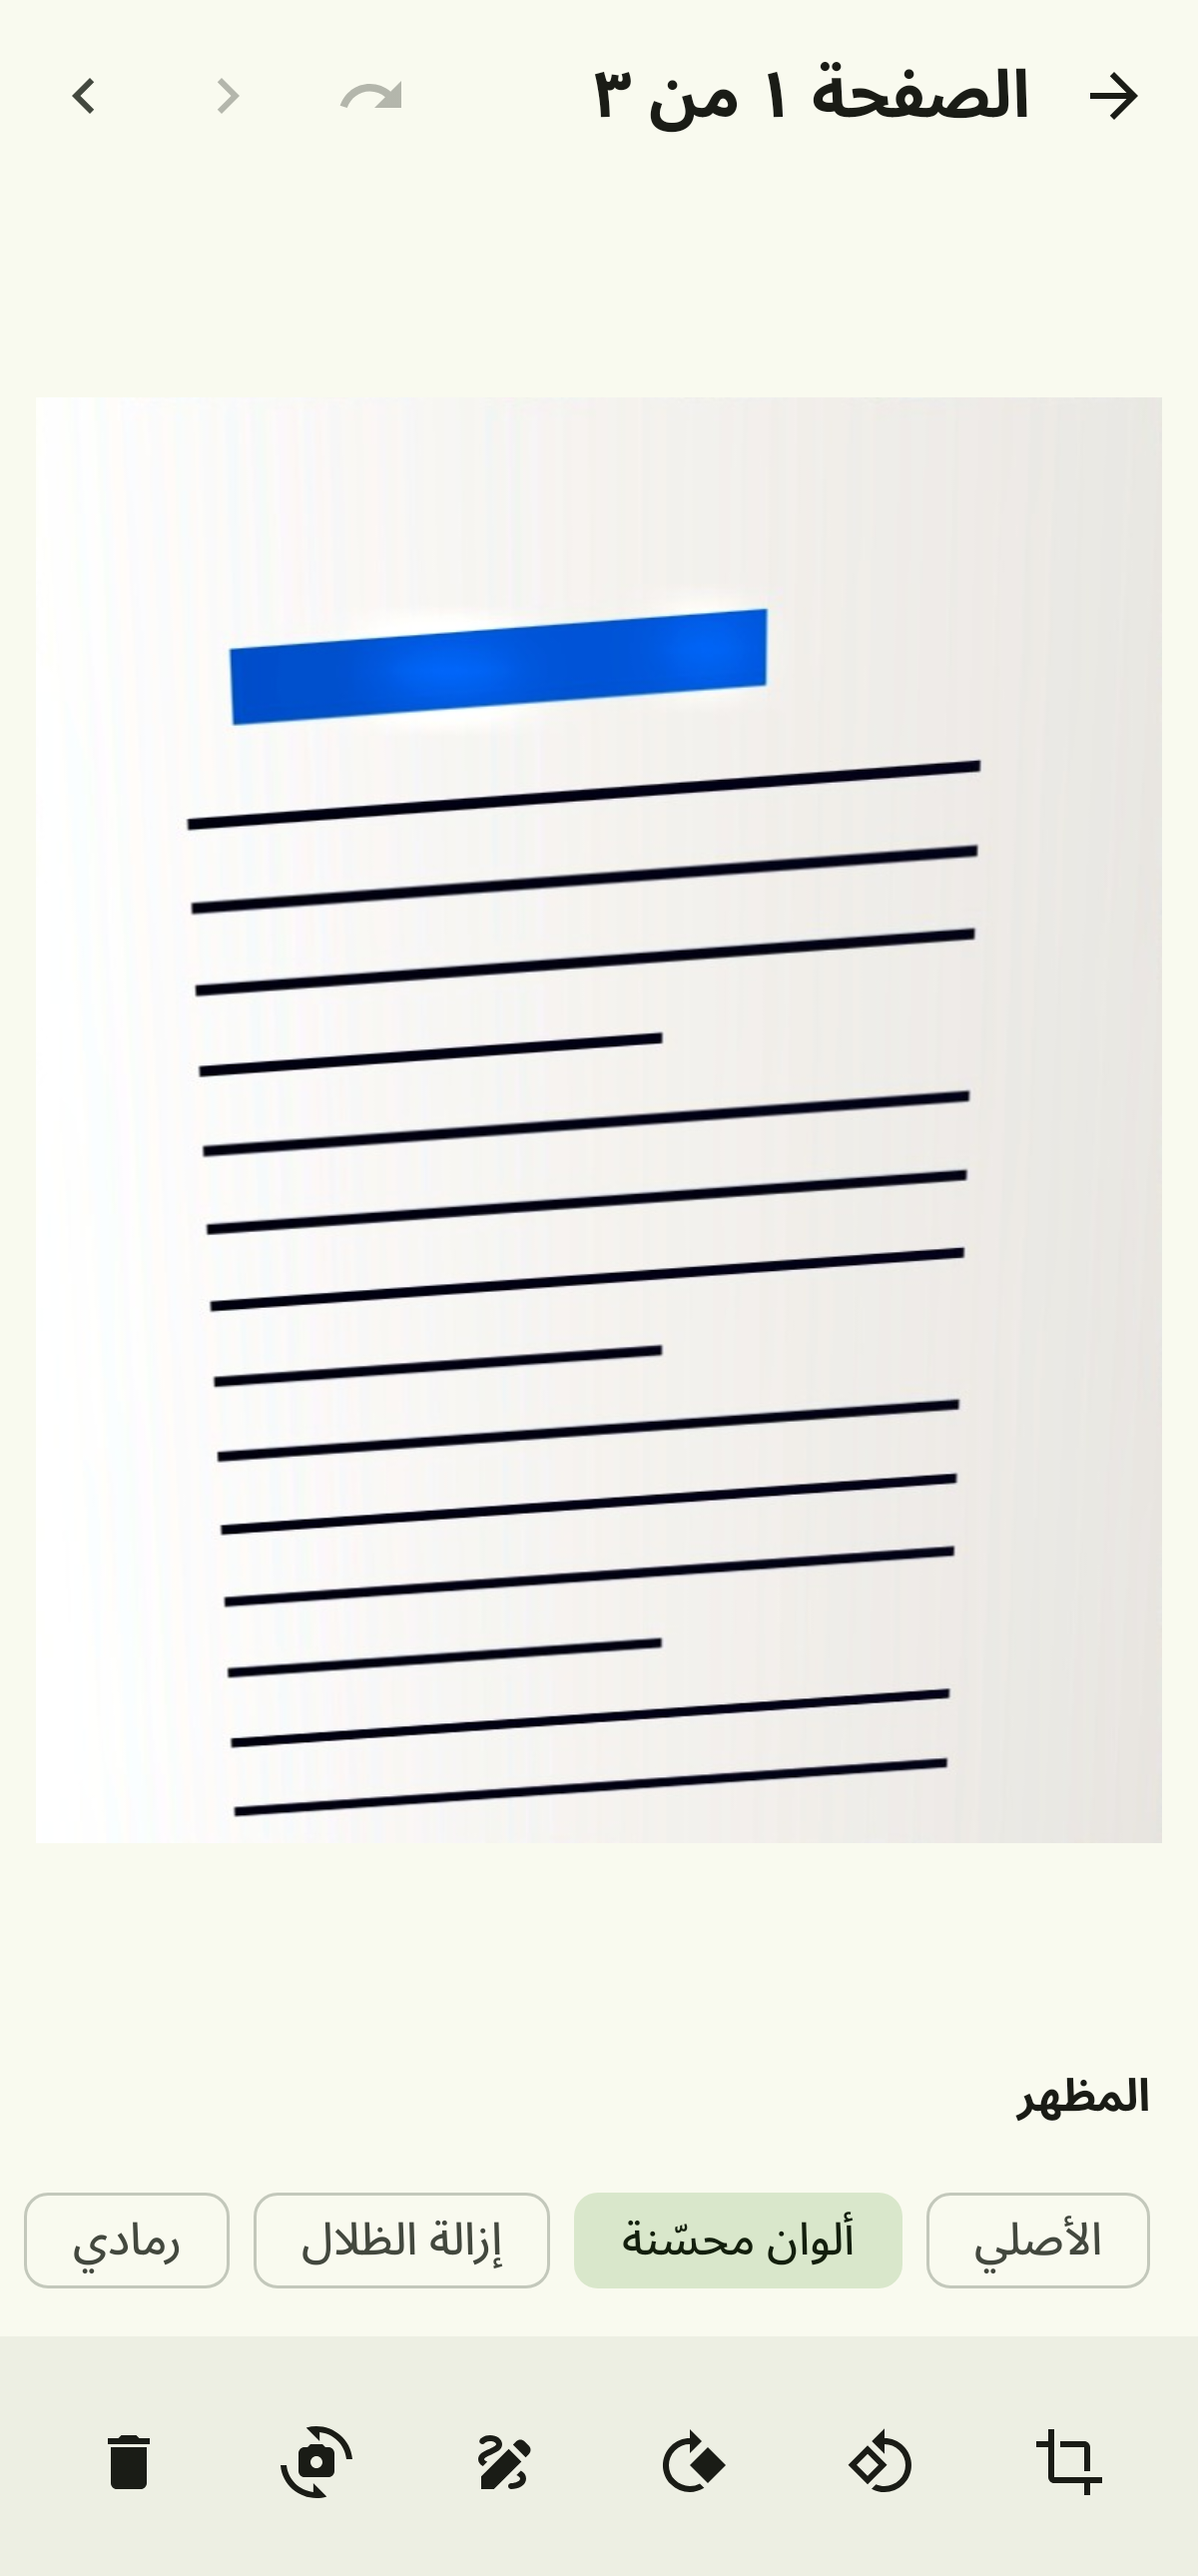
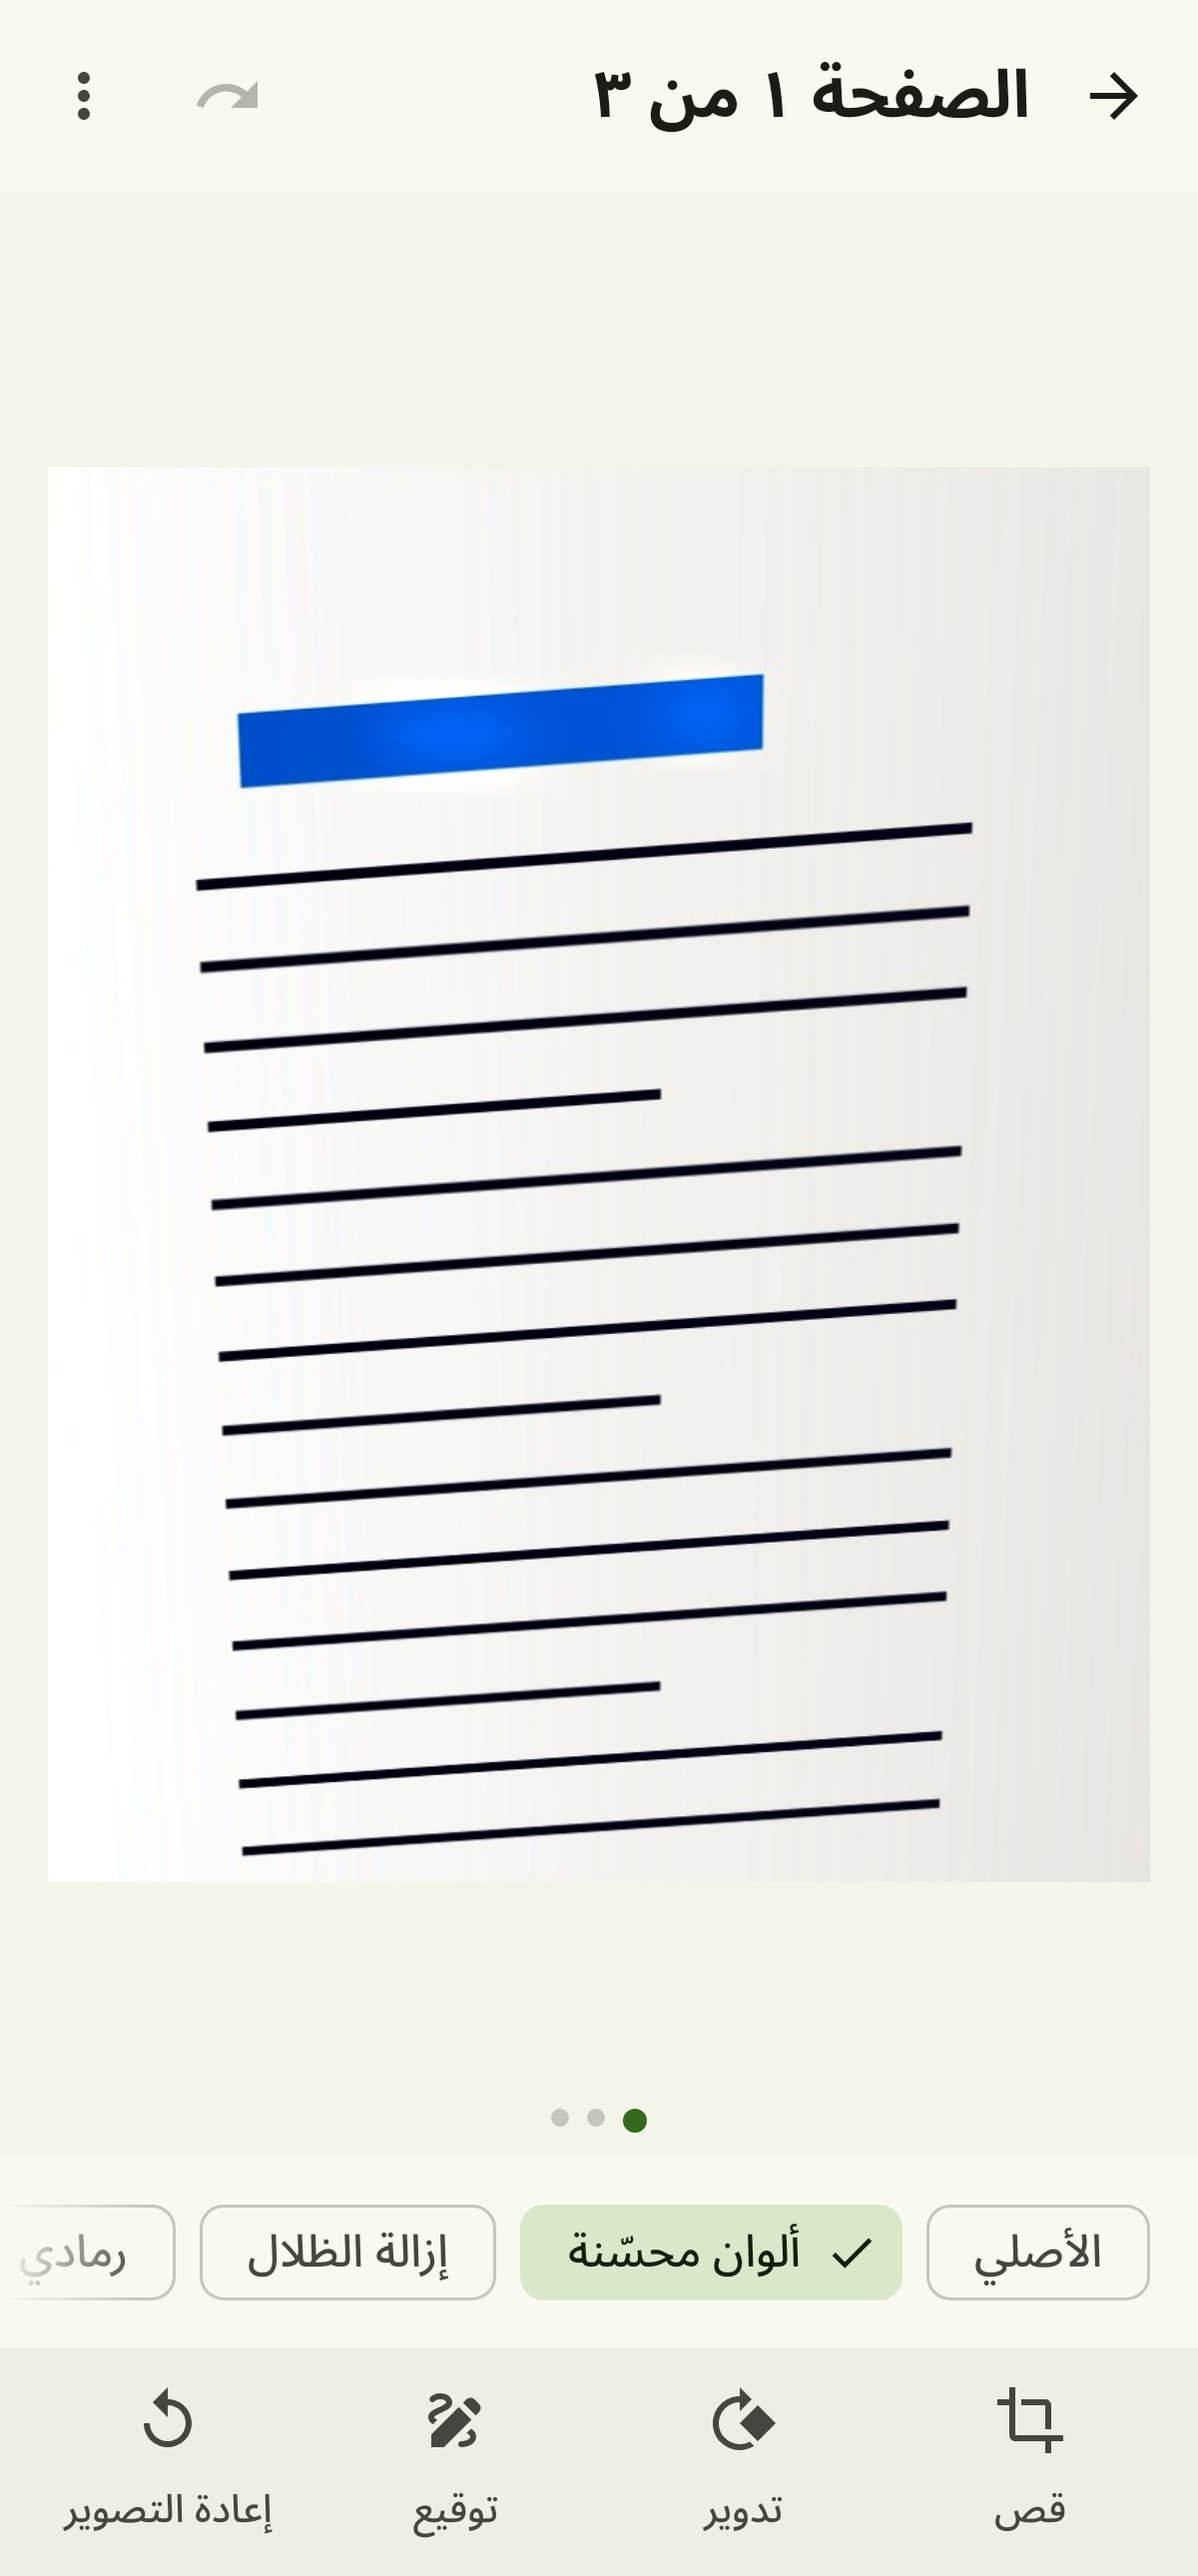
Design step 7: page editor with swipe pager, filter chips with check, labelled toolbar
Pages swipe in a HorizontalPager (title announces «الصفحة ٢ من ٣», pager
scroll actions for TalkBack, dots); the page is a white sheet with a level-1
shadow at its own aspect; chips show a check and fade at the end edge; toolbar
crop / rotate / signature / retake; rotate-left and delete (confirm) in ⋮.

diff --git a/app/src/main/java/com/fastkiwi/scan/ui/PageScreen.kt b/app/src/main/java/com/fastkiwi/scan/ui/PageScreen.kt
@@ -2,50 +2,57 @@
 // SPDX-License-Identifier: Apache-2.0
 package com.fastkiwi.scan.ui
 
+import androidx.compose.foundation.background
 import androidx.compose.foundation.layout.Arrangement
 import androidx.compose.foundation.layout.Box
 import androidx.compose.foundation.layout.Column
+import androidx.compose.foundation.layout.PaddingValues
 import androidx.compose.foundation.layout.Row
+import androidx.compose.foundation.layout.aspectRatio
+import androidx.compose.foundation.layout.fillMaxHeight
 import androidx.compose.foundation.layout.fillMaxSize
 import androidx.compose.foundation.layout.fillMaxWidth
 import androidx.compose.foundation.layout.padding
+import androidx.compose.foundation.layout.size
+import androidx.compose.foundation.layout.width
 import androidx.compose.foundation.lazy.LazyRow
 import androidx.compose.foundation.lazy.items
-import androidx.compose.material.icons.Icons
-import androidx.compose.material.icons.automirrored.filled.ArrowBack
-import androidx.compose.material.icons.automirrored.filled.NavigateBefore
-import androidx.compose.material.icons.automirrored.filled.NavigateNext
-import androidx.compose.material.icons.filled.Rotate90DegreesCcw
-import androidx.compose.material.icons.filled.Rotate90DegreesCw
-import androidx.compose.material.icons.filled.Cameraswitch
-import androidx.compose.material.icons.automirrored.filled.Undo
-import androidx.compose.material.icons.filled.Crop
-import androidx.compose.material.icons.filled.Draw
-import androidx.compose.material.icons.filled.Delete
-import androidx.compose.material3.BottomAppBar
+import androidx.compose.foundation.pager.HorizontalPager
+import androidx.compose.foundation.pager.rememberPagerState
+import androidx.compose.foundation.shape.CircleShape
 import androidx.compose.material3.CircularProgressIndicator
-import androidx.compose.material3.ExperimentalMaterial3Api
+import androidx.compose.material3.DropdownMenu
+import androidx.compose.material3.DropdownMenuItem
 import androidx.compose.material3.FilterChip
+import androidx.compose.material3.FilterChipDefaults
 import androidx.compose.material3.Icon
-import androidx.compose.material3.IconButton
 import androidx.compose.material3.MaterialTheme
 import androidx.compose.material3.Scaffold
 import androidx.compose.material3.SnackbarHost
 import androidx.compose.material3.SnackbarHostState
+import androidx.compose.material3.Surface
 import androidx.compose.material3.Text
-import androidx.compose.material3.TopAppBar
 import androidx.compose.runtime.Composable
+import androidx.compose.runtime.LaunchedEffect
 import androidx.compose.runtime.getValue
 import androidx.compose.runtime.mutableStateOf
 import androidx.compose.runtime.remember
 import androidx.compose.runtime.setValue
 import androidx.compose.ui.Alignment
 import androidx.compose.ui.Modifier
+import androidx.compose.ui.graphics.Brush
+import androidx.compose.ui.graphics.Color
+import androidx.compose.ui.platform.LocalLayoutDirection
 import androidx.compose.ui.res.stringResource
+import androidx.compose.ui.semantics.LiveRegionMode
+import androidx.compose.ui.semantics.liveRegion
+import androidx.compose.ui.semantics.semantics
+import androidx.compose.ui.unit.LayoutDirection
 import androidx.compose.ui.unit.dp
 import androidx.lifecycle.compose.collectAsStateWithLifecycle
 import com.fastkiwi.scan.R
 import com.fastkiwi.scan.core.Filter
+import com.fastkiwi.scan.ui.theme.Dimens
 
 fun filterLabel(f: Filter): Int = when (f) {
     Filter.ORIGINAL -> R.string.filter_original
@@ -55,80 +62,82 @@ fun filterLabel(f: Filter): Int = when (f) {
     Filter.BW -> R.string.filter_bw
 }
 
-@OptIn(ExperimentalMaterial3Api::class)
+/**
+ * Page editor (design spec §3.5): swipe between pages, filter chips, and a
+ * labelled toolbar (crop, rotate, signature, retake); rotate-left and delete in ⋮.
+ */
 @Composable
 fun PageScreen(vm: AppViewModel, docId: String, startIndex: Int, snackbar: SnackbarHostState) {
     val docs by vm.docs.collectAsStateWithLifecycle()
     val doc = docs.firstOrNull { it.doc.id == docId }?.doc ?: vm.doc(docId)
-    var index by remember { mutableStateOf(startIndex) }
     var confirmDelete by remember { mutableStateOf(false) }
+    var menu by remember { mutableStateOf(false) }
     val busy by vm.busy
     if (doc == null || doc.pages.isEmpty()) {
-        androidx.compose.runtime.LaunchedEffect(Unit) { vm.back() }
+        LaunchedEffect(Unit) { vm.back() }
         return
     }
-    index = index.coerceIn(0, doc.pages.lastIndex)
+    val pager = rememberPagerState(initialPage = startIndex.coerceIn(0, doc.pages.lastIndex)) { doc.pages.size }
+    val index = pager.currentPage.coerceIn(0, doc.pages.lastIndex)
     val page = doc.pages[index]
 
     Scaffold(
         snackbarHost = { SnackbarHost(snackbar) },
         topBar = {
-            TopAppBar(
-                navigationIcon = { IconButton(onClick = { vm.back() }) { Icon(Icons.AutoMirrored.Filled.ArrowBack, stringResource(R.string.back)) } },
-                title = { Text(stringResource(R.string.page_n_of, index + 1, doc.pages.size)) },
-                actions = {
-                    IconButton(onClick = { vm.undo(docId) }, enabled = (vm.undoCounts[docId] ?: 0) > 0) {
-                        Icon(Icons.AutoMirrored.Filled.Undo, stringResource(R.string.undo))
+            KiwiTopBar(
+                stringResource(R.string.page_n_of, index + 1, doc.pages.size), NavIcon.BACK, { vm.back() },
+                titleModifier = Modifier.semantics { liveRegion = LiveRegionMode.Polite },
+            ) {
+                TooltipIconButton(KiwiIcons.undo(), stringResource(R.string.undo), { vm.undo(docId) }, enabled = (vm.undoCounts[docId] ?: 0) > 0)
+                Box {
+                    TooltipIconButton(KiwiIcons.more(), stringResource(R.string.more_options), { menu = true })
+                    DropdownMenu(expanded = menu, onDismissRequest = { menu = false }) {
+                        DropdownMenuItem(
+                            text = { Text(stringResource(R.string.rotate_left)) },
+                            leadingIcon = { Icon(KiwiIcons.rotateLeft(), null) },
+                            onClick = { menu = false; vm.editPage(docId, page.id) { it.copy(rotation = (it.rotation + 270) % 360) } },
+                        )
+                        DropdownMenuItem(
+                            text = { Text(stringResource(R.string.delete_page), color = MaterialTheme.colorScheme.error) },
+                            leadingIcon = { Icon(KiwiIcons.delete(), null, tint = MaterialTheme.colorScheme.error) },
+                            onClick = { menu = false; confirmDelete = true },
+                        )
                     }
-                    IconButton(onClick = { index-- }, enabled = index > 0) { Icon(Icons.AutoMirrored.Filled.NavigateBefore, stringResource(R.string.previous_page)) }
-                    IconButton(onClick = { index++ }, enabled = index < doc.pages.lastIndex) { Icon(Icons.AutoMirrored.Filled.NavigateNext, stringResource(R.string.next_page)) }
-                },
-            )
+                }
+            }
         },
         bottomBar = {
-            BottomAppBar {
-                Row(Modifier.fillMaxWidth(), horizontalArrangement = Arrangement.SpaceEvenly) {
-                    IconButton(onClick = { vm.open(Screen.Crop(docId, page.id)) }) { Icon(Icons.Filled.Crop, stringResource(R.string.crop)) }
-                    IconButton(onClick = { vm.editPage(docId, page.id) { it.copy(rotation = (it.rotation + 270) % 360) } }) {
-                        Icon(Icons.Filled.Rotate90DegreesCcw, stringResource(R.string.rotate_left))
-                    }
-                    IconButton(onClick = { vm.editPage(docId, page.id) { it.copy(rotation = (it.rotation + 90) % 360) } }) {
-                        Icon(Icons.Filled.Rotate90DegreesCw, stringResource(R.string.rotate_right))
-                    }
-                    IconButton(onClick = { vm.open(Screen.Sign(docId, page.id)) }) { Icon(Icons.Filled.Draw, stringResource(R.string.signature)) }
-                    IconButton(onClick = { vm.open(Screen.Camera(docId, retakePageId = page.id)) }) { Icon(Icons.Filled.Cameraswitch, stringResource(R.string.retake)) }
-                    IconButton(onClick = { confirmDelete = true }) { Icon(Icons.Filled.Delete, stringResource(R.string.delete_page)) }
-                }
+            ActionToolbar {
+                ToolbarAction(KiwiIcons.crop(), stringResource(R.string.crop), { vm.open(Screen.Crop(docId, page.id)) })
+                ToolbarAction(KiwiIcons.rotateRight(), stringResource(R.string.rotate), {
+                    vm.editPage(docId, page.id) { it.copy(rotation = (it.rotation + 90) % 360) }
+                })
+                ToolbarAction(KiwiIcons.signature(), stringResource(R.string.signature), { vm.open(Screen.Sign(docId, page.id)) })
+                ToolbarAction(KiwiIcons.retake(), stringResource(R.string.retake), { vm.open(Screen.Camera(docId, retakePageId = page.id)) })
             }
         },
     ) { padding ->
         Column(Modifier.padding(padding).fillMaxSize()) {
-            Box(Modifier.weight(1f).fillMaxWidth().padding(12.dp), contentAlignment = Alignment.Center) {
-                FileImage(
-                    vm.store.outFile(docId, page.id), page.revision, 2048,
-                    stringResource(R.string.page_n_of, index + 1, doc.pages.size),
-                    Modifier.fillMaxSize(),
-                )
-                if (busy > 0) CircularProgressIndicator()
-            }
-            Text(
-                stringResource(R.string.filter), style = MaterialTheme.typography.titleSmall,
-                modifier = Modifier.padding(horizontal = 16.dp),
-            )
-            LazyRow(
-                Modifier.fillMaxWidth().padding(vertical = 8.dp),
-                horizontalArrangement = Arrangement.spacedBy(8.dp),
-                contentPadding = androidx.compose.foundation.layout.PaddingValues(horizontal = 16.dp),
-            ) {
-                items(Filter.entries) { f ->
-                    FilterChip(
-                        selected = page.filter == f,
-                        onClick = { if (page.filter != f) vm.editPage(docId, page.id) { it.copy(filter = f) } },
-                        label = { Text(stringResource(filterLabel(f))) },
-                        enabled = busy == 0,
-                    )
+            Box(Modifier.weight(1f).fillMaxWidth().background(MaterialTheme.colorScheme.surfaceContainerLow)) {
+                HorizontalPager(pager, Modifier.fillMaxSize(), key = { doc.pages[it].id }) { i ->
+                    val p = doc.pages[i]
+                    val file = vm.store.outFile(docId, p.id)
+                    val aspect by androidx.compose.runtime.produceState(0.707f, file, p.revision) {
+                        value = kotlinx.coroutines.withContext(kotlinx.coroutines.Dispatchers.IO) {
+                            com.fastkiwi.scan.imaging.BitmapIO.imageSize(file)?.let { (w, h) -> w.toFloat() / h } ?: 0.707f
+                        }
+                    }
+                    Box(Modifier.fillMaxSize().padding(Dimens.l), contentAlignment = Alignment.Center) {
+                        // The page as a sheet of paper (level-1 shadow), never tinted.
+                        Surface(shadowElevation = 1.dp, color = Color.White, modifier = Modifier.aspectRatio(aspect, matchHeightConstraintsFirst = aspect < 1f)) {
+                            FileImage(file, p.revision, 2048, stringResource(R.string.page_n_of, i + 1, doc.pages.size), Modifier.fillMaxSize())
+                        }
+                    }
                 }
+                if (busy > 0) CircularProgressIndicator(Modifier.align(Alignment.Center))
+                if (doc.pages.size > 1) PageDots(doc.pages.size, index, Modifier.align(Alignment.BottomCenter).padding(bottom = Dimens.s))
             }
+            FilterRow(page.filter, enabled = busy == 0) { f -> if (page.filter != f) vm.editPage(docId, page.id) { it.copy(filter = f) } }
         }
     }
 
@@ -142,5 +151,44 @@ fun PageScreen(vm: AppViewModel, docId: String, startIndex: Int, snackbar: Snack
             vm.deletePage(docId, index)
             if (doc.pages.size <= 1) vm.back()
         }
+    }
+}
+
+@Composable
+private fun PageDots(count: Int, current: Int, modifier: Modifier) {
+    Row(modifier, horizontalArrangement = Arrangement.spacedBy(6.dp)) {
+        repeat(count.coerceAtMost(12)) { i ->
+            Box(
+                Modifier.size(if (i == current) 8.dp else 6.dp)
+                    .background(if (i == current) MaterialTheme.colorScheme.primary else MaterialTheme.colorScheme.outlineVariant, CircleShape),
+            )
+        }
+    }
+}
+
+/** Single-select filter chips; a fade at the end edge shows that the row scrolls. */
+@Composable
+private fun FilterRow(selected: Filter, enabled: Boolean, onSelect: (Filter) -> Unit) {
+    val bg = MaterialTheme.colorScheme.surface
+    val rtl = LocalLayoutDirection.current == LayoutDirection.Rtl
+    Box(Modifier.fillMaxWidth().padding(vertical = Dimens.s)) {
+        LazyRow(
+            horizontalArrangement = Arrangement.spacedBy(Dimens.s),
+            contentPadding = PaddingValues(horizontal = Dimens.l),
+        ) {
+            items(Filter.entries) { f ->
+                val isSel = selected == f
+                FilterChip(
+                    selected = isSel,
+                    onClick = { onSelect(f) },
+                    label = { Text(stringResource(filterLabel(f))) },
+                    leadingIcon = if (isSel) ({ Icon(KiwiIcons.check(), null, Modifier.size(18.dp)) }) else null,
+                    enabled = enabled,
+                    colors = FilterChipDefaults.filterChipColors(selectedContainerColor = MaterialTheme.colorScheme.secondaryContainer),
+                )
+            }
+        }
+        val fade = if (rtl) listOf(bg, Color.Transparent) else listOf(Color.Transparent, bg)
+        Box(Modifier.align(Alignment.CenterEnd).width(48.dp).size(width = 48.dp, height = 48.dp).background(Brush.horizontalGradient(fade)))
     }
 }
